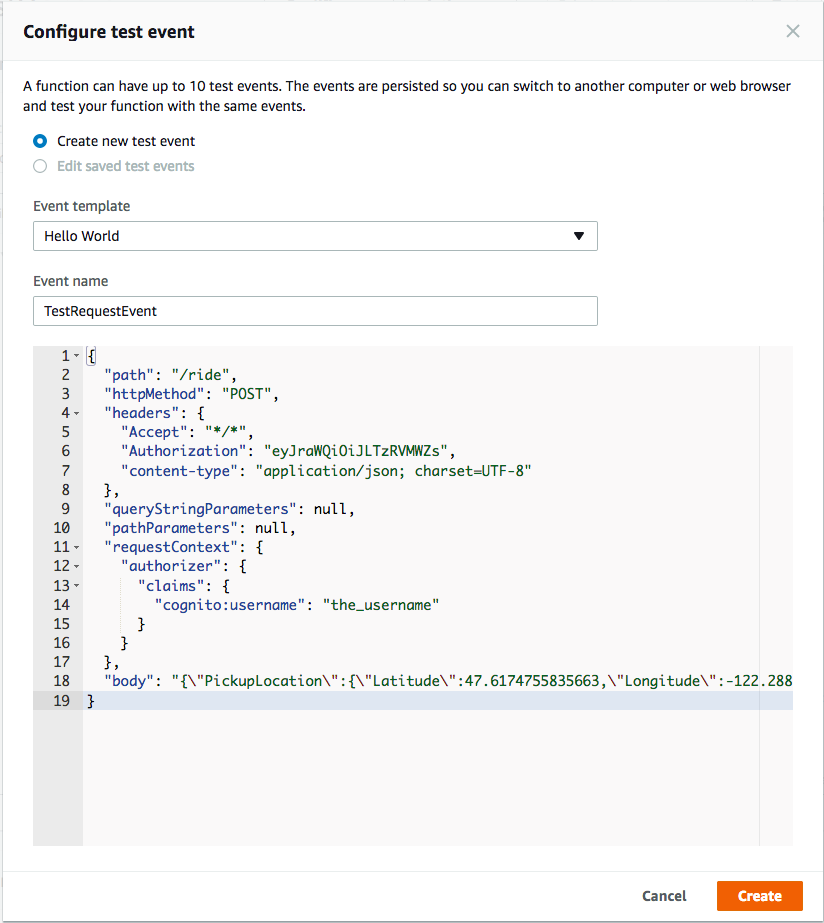
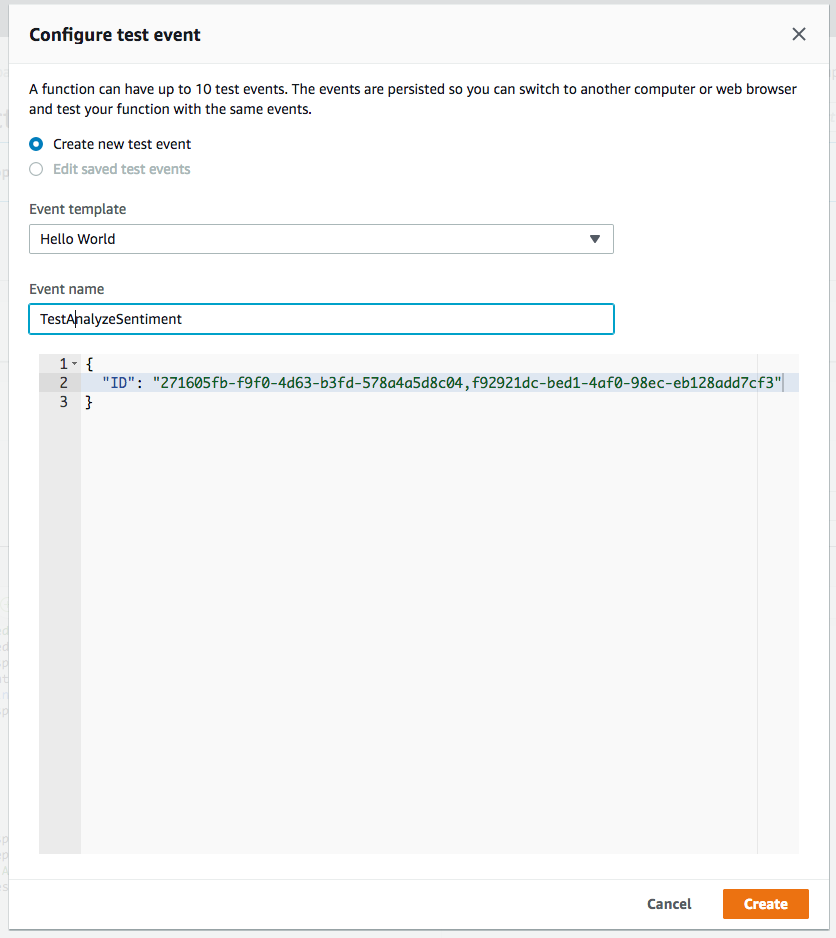
Updated manual steps description for Lambda function creation for sentiment prediction.

diff --git a/2_SentimentAnalysis/README.md b/2_SentimentAnalysis/README.md
@@ -73,7 +73,7 @@ Make sure to configure your function to use the `VOCLambdaRole` IAM role you cre
 
 1. Ensure `Choose an existing role` is selected from the **Role** dropdown.
 
-1. Select `VOCLambdaRoleComprehend` from the **Existing Role** dropdown.
+1. Select `VOCLambdaRole` from the **Existing Role** dropdown.
     ![Create Lambda function screenshot](images/create-lambda-function.png)
 
 1. Click on **Create function**.
@@ -82,6 +82,9 @@ Make sure to configure your function to use the `VOCLambdaRole` IAM role you cre
 
     ![Create Lambda function screenshot](images/create-lambda-function-code.png)
 
+1. Scroll down to the **"Environment sariables"** section and add an environment variable with Key `table_name` and Value - `UnicornCustomerFeedback`.
+    ![Create Lambda function screenshot](images/create-lambda-env-var.png)
+    
 1. Click **"Save"** in the upper right corner of the page.
 
 </p></details>
@@ -95,32 +98,20 @@ For this section you will test the function that you built using the AWS Lambda 
 	
 1. Keep **Create new test event** selected.
 
-1. Enter `TestRequestEvent` in the **Event name** field
+1. Enter `TestAnalyzeSentiment` in the **Event name** field
 
-1. Copy and paste the following test event into the editor:
+1. Insert JSON request body similar to the following into the test event editor:
 
 	```JSON
     {
-        "path": "/ride",
-        "httpMethod": "POST",
-        "headers": {
-            "Accept": "*/*",
-            "Authorization": "eyJraWQiOiJLTzRVMWZs",
-            "content-type": "application/json; charset=UTF-8"
-        },
-        "queryStringParameters": null,
-        "pathParameters": null,
-        "requestContext": {
-            "authorizer": {
-                "claims": {
-                    "cognito:username": "the_username"
-                }
-            }
-        },
-        "body": "{\"PickupLocation\":{\"Latitude\":47.6174755835663,\"Longitude\":-122.28837066650185}}"
+        "ID": "271605fb-f9f0-4d63-b3fd-578a4a5d8c04,f92921dc-bed1-4af0-98ec-eb128add7cf3"
     }
     ```
-
+    Replace the IDs specified with the IDs of the item you have in the DynamoDB table - `UnicornCustomerFeedback`. You can find the items inserted into DynamoDB table flom DynamoDB console, by looking inside the table `UnicornCustomerFeedback`. 
+    ![DynamoDB Entries](images/dynamodb-entries.png)
+    
+    Items will get inserted there as you keep using the web application created in Module-1.
+    You can insert as many items and use as many of those IDs as you like. In case of multiple IDs, you have to separate the entries with comma(,).
     ![Configure test event](images/configure-test-event-2.png)
 	
 1. Click **Create**.
